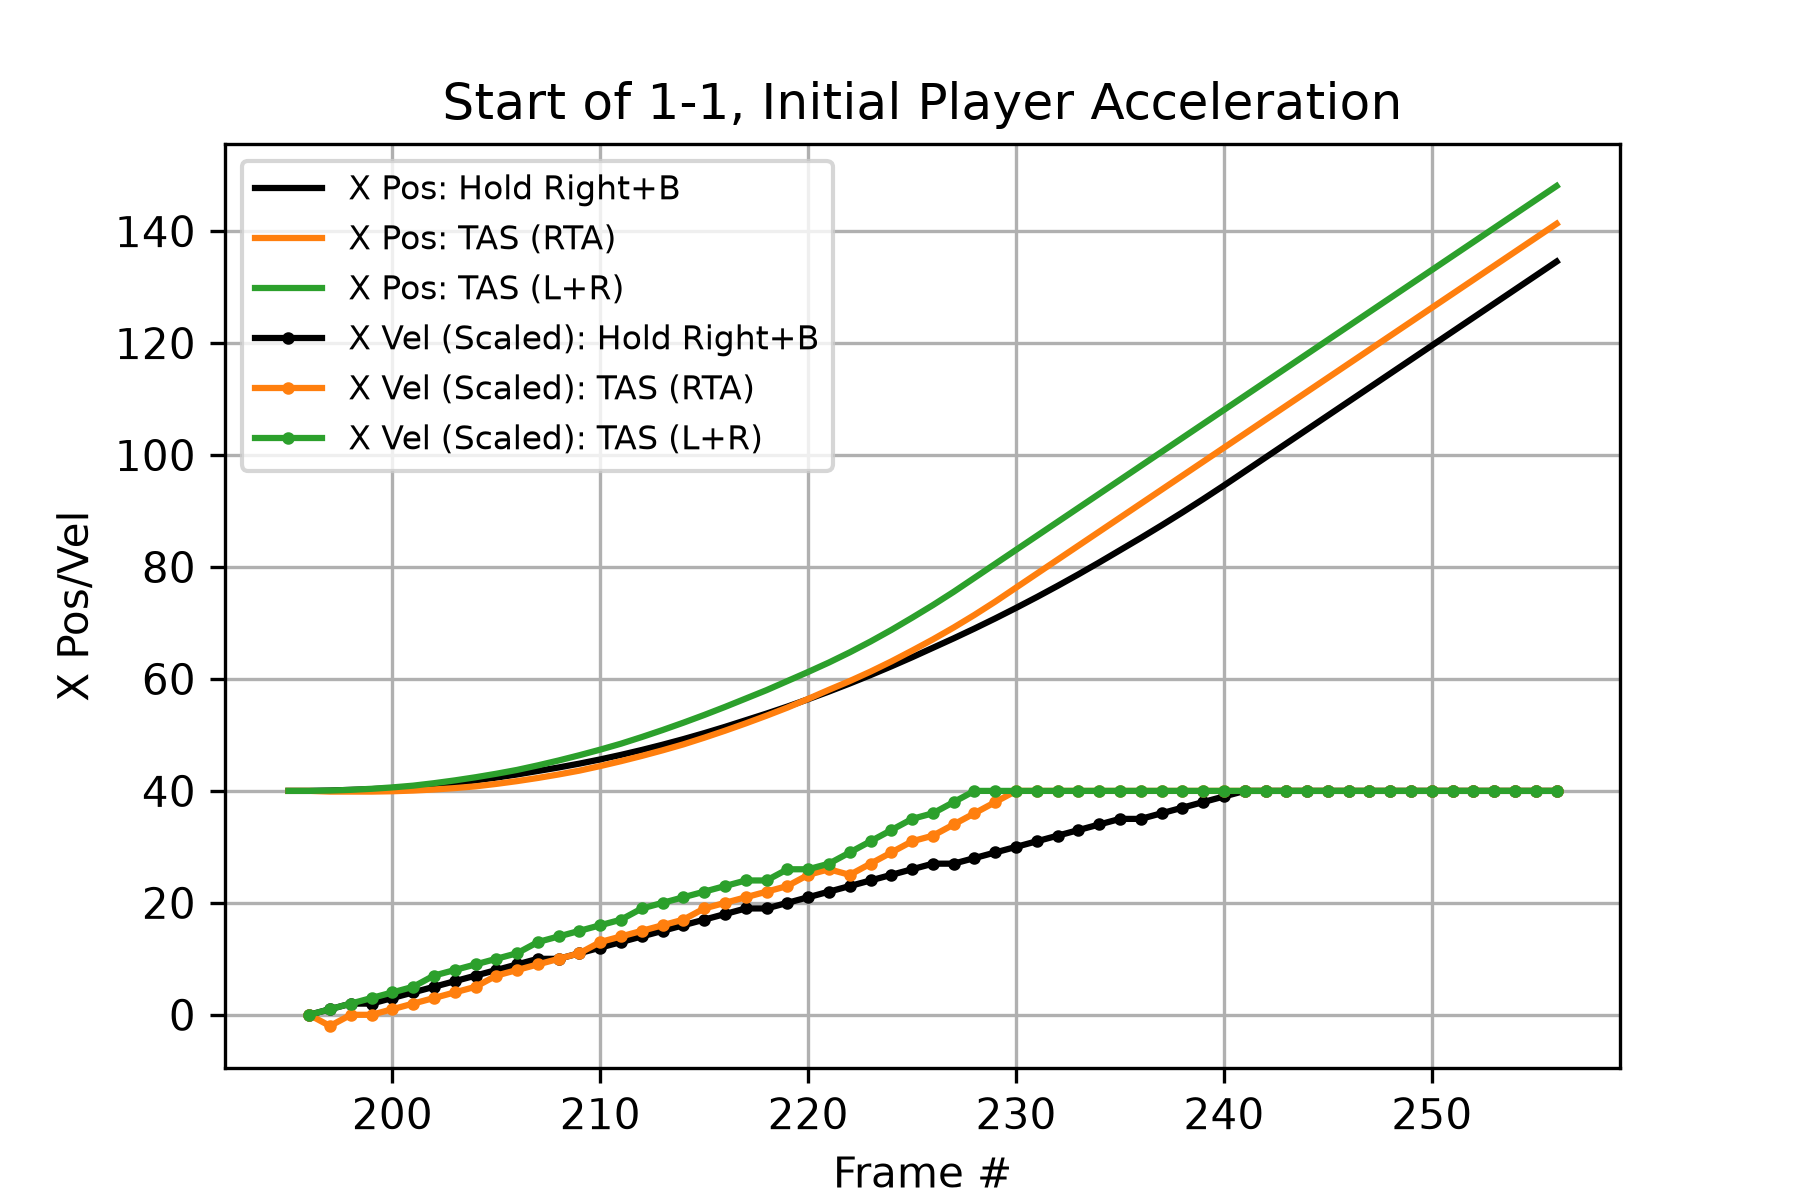
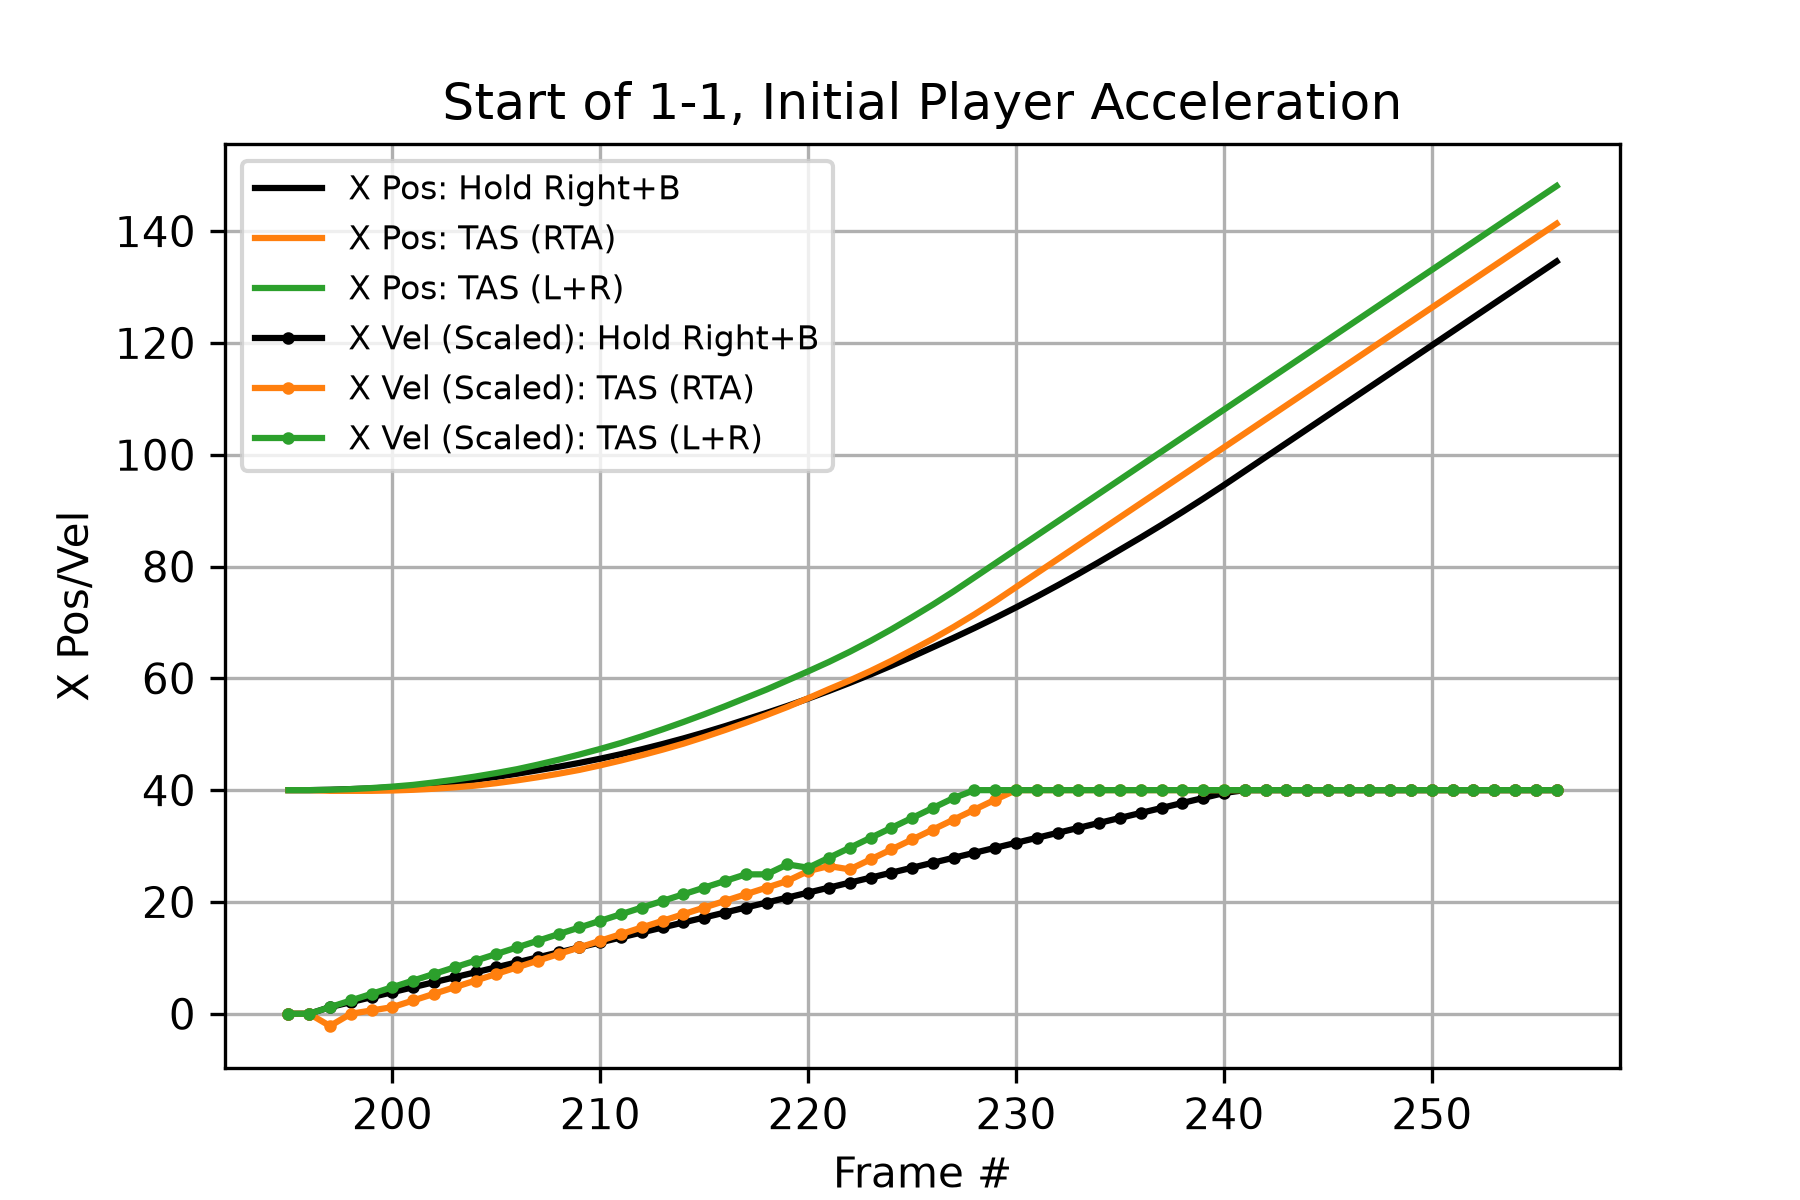
Update Proof-of-Concept plot

diff --git a/00ProofOfConcept/smb1_data_post-processor_v1.py b/00ProofOfConcept/smb1_data_post-processor_v1.py
@@ -41,9 +41,9 @@ plt.plot(B_L.Frame, B_L.Px, label="X Pos: Hold Right+B", color="black")
 plt.plot(RTA.Frame, RTA.Px, label="X Pos: TAS (RTA)", color="tab:orange")
 plt.plot(TAS.Frame, TAS.Px, label="X Pos: TAS (L+R)", color="tab:green")
 
-plt.plot(B_L.Frame, B_L.VxEmp, label="X Vel (Scaled): Hold Right+B", color="black", marker='.', markersize=4)
-plt.plot(RTA.Frame, RTA.VxEmp, label="X Vel (Scaled): TAS (RTA)", color="tab:orange", marker='.', markersize=4)
-plt.plot(TAS.Frame, TAS.VxEmp, label="X Vel (Scaled): TAS (L+R)", color="tab:green", marker='.', markersize=4)
+plt.plot(B_L.Frame, B_L.Vx.clip(upper=40), label="X Vel (Scaled): Hold Right+B", color="black", marker='.', markersize=4)
+plt.plot(RTA.Frame, RTA.Vx.clip(upper=40), label="X Vel (Scaled): TAS (RTA)", color="tab:orange", marker='.', markersize=4)
+plt.plot(TAS.Frame, TAS.Vx.clip(upper=40), label="X Vel (Scaled): TAS (L+R)", color="tab:green", marker='.', markersize=4)
 
 # plt.plot(TAS.Frame, TAS.Ax * 10 - 25, label="X Acc: TAS", color='tab:green', linestyle=':')
 # plt.plot(RTA.Frame, RTA.Ax * 10 - 25, label="X Acc: RTA", color='tab:orange', linestyle=':')
